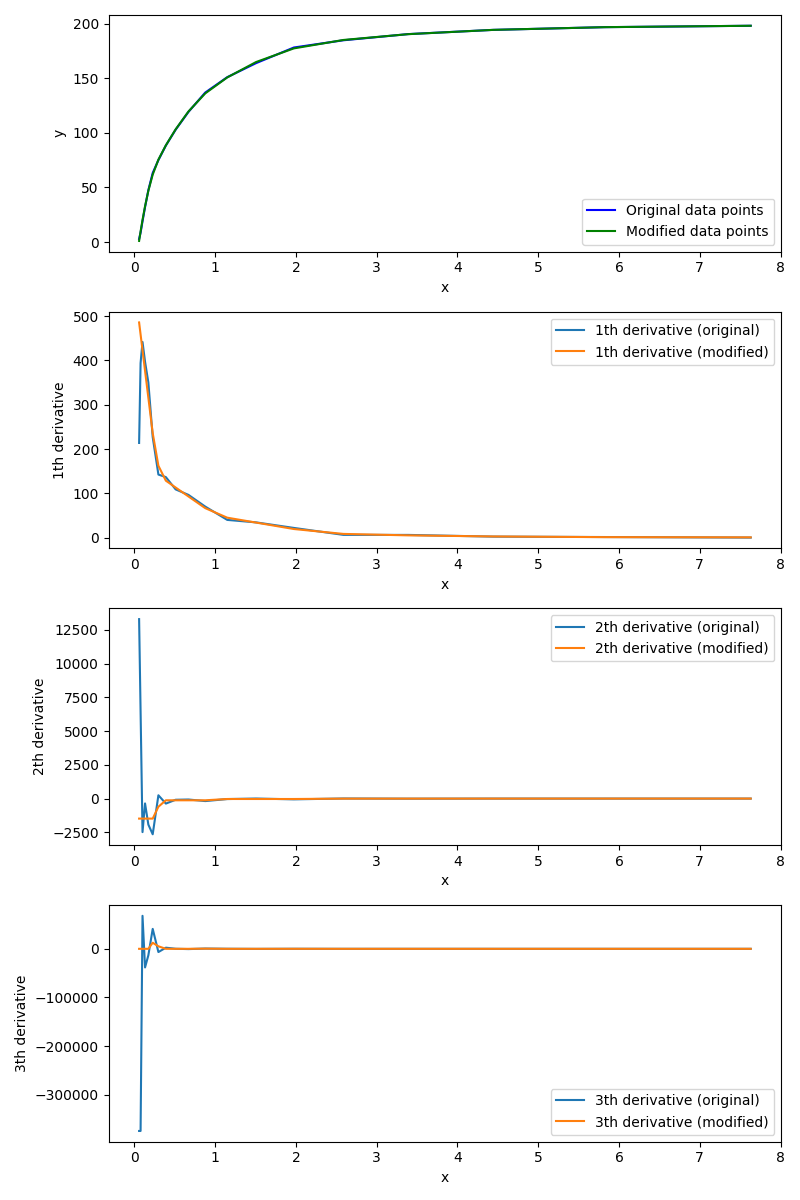
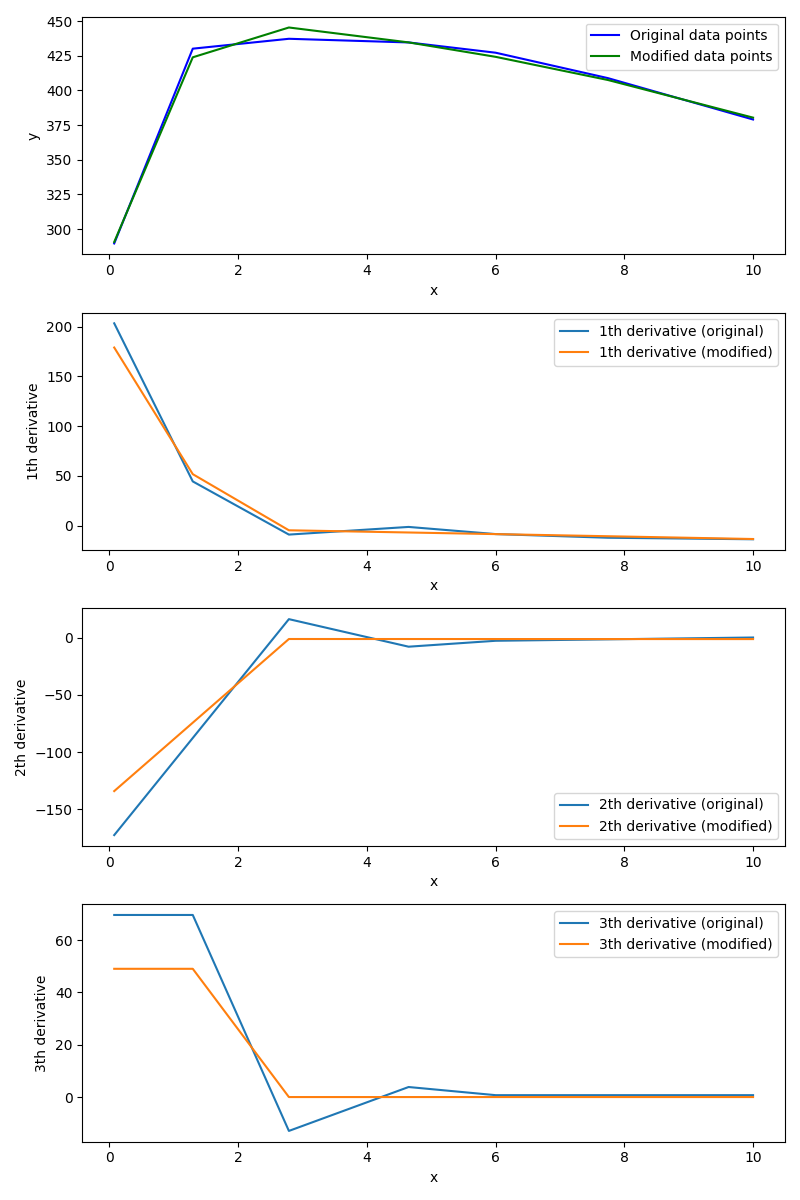
readme

diff --git a/README.md b/README.md
@@ -46,11 +46,17 @@ The function returns a modified numpy array of dependent variable data points (`
 import numpy as np
 from monotonic_derivative import ensure_monotonic_derivative
 
-x = np.array([0, 1, 2, 3, 4, 5])
-y = np.array([100, 55, 53, 40, 35, 5])
+y = np.array([289.624, 430.174, 437.31, 434.67, 427.255, 408.902, 379.064])
+x = np.array([0.078, 1.298, 2.791, 4.65, 6.002, 7.747, 10.0])
 
 modified_y = ensure_monotonic_derivative(
-    x, y, degree=2, force_negative_derivative=True, verbose=True, save_plot=True)
+    x=x,
+    y=y,
+    degree=3, 
+    force_negative_derivative=False,
+    verbose=True,
+    save_plot=True,
+)
 ```
 
 #### Result :
@@ -58,15 +64,19 @@ modified_y = ensure_monotonic_derivative(
 We got a new curve that follow one rule : The Xth degree (depending of paramter degree) derivate must be increasing/decreasing (depending of force_negative_derivative parameter) curve.
 
 ```
-#from
-y = [100, 55, 53, 40, 35, 5]
-#to
-modified_y = [99.78638543 56.7089208  48.94131484 44.05868538 33.29107987  5.21361543]
+Original y    : [289.624 430.174 437.31  434.67  427.255 408.902 379.064]
+Modified y    : [290.6626736  423.94170784 445.4551795  434.69854619 424.27831859 407.55132434 380.41124237]
+Similarity score : 0.9982442661935377 
+Optimization success: True
+Optimization message: Optimization terminated successfully
 ```
 
-As you can see, slight change on y can totaly change how react the 2rd derivate.
+As you can see, big change on 3rd derivate have small impact of the 1st derivate curve but force it to be monotonicaly decreasing. 
 
 ![Derivative Example](./images/derivative.png)
+
+Obvisouly and depending of which degree to lock below or above 0 you can force a curve to be closer to their mathematical reality.
+
 
 #### Genetic algorithm smoothing tool:
 
@@ -91,7 +101,7 @@ The function returns the best individual (smoothed curve) found by the genetic a
 
 ```python
 import numpy as np
-from monotonic_derivative.curve_smoothing import  curve_smoothing
+from monotonic_derivative.curve_smoothing import curve_smoothing
 
 points = np.array([125, 55, 53, 40, 35, -25])
 best_individual = curve_smoothing(points, alpha=0.5,save_plots = True)
@@ -108,7 +118,7 @@ This gif show how the genetic algorithm worked :
 
 In many real-life scenarios, the collected data may produce curves that are not logical or do not follow the expected constraints. For example, the data representing the velocity of a car over time should show an increasing or decreasing acceleration, but due to measurement errors or other factors, the collected data points may not reflect this.
 
-The Monotonic Derivative library offers an easy solution to slightly modify the data to respect these constraints. By using this library, you can ensure that the specified degree derivative of the cubic spline is always monotonically increasing or decreasing, making your data analysis more accurate and reliable.
+The Monotonic Derivative library offers an easy solution to slightly modify the data to respect these constraints. By using this library, you can ensure that the specified degree derivative always monotonically increasing or decreasing, by forcing the value of a derivative to be below or above 0, making your data analysis more accurate and reliable.
 
 ### Limit
 
